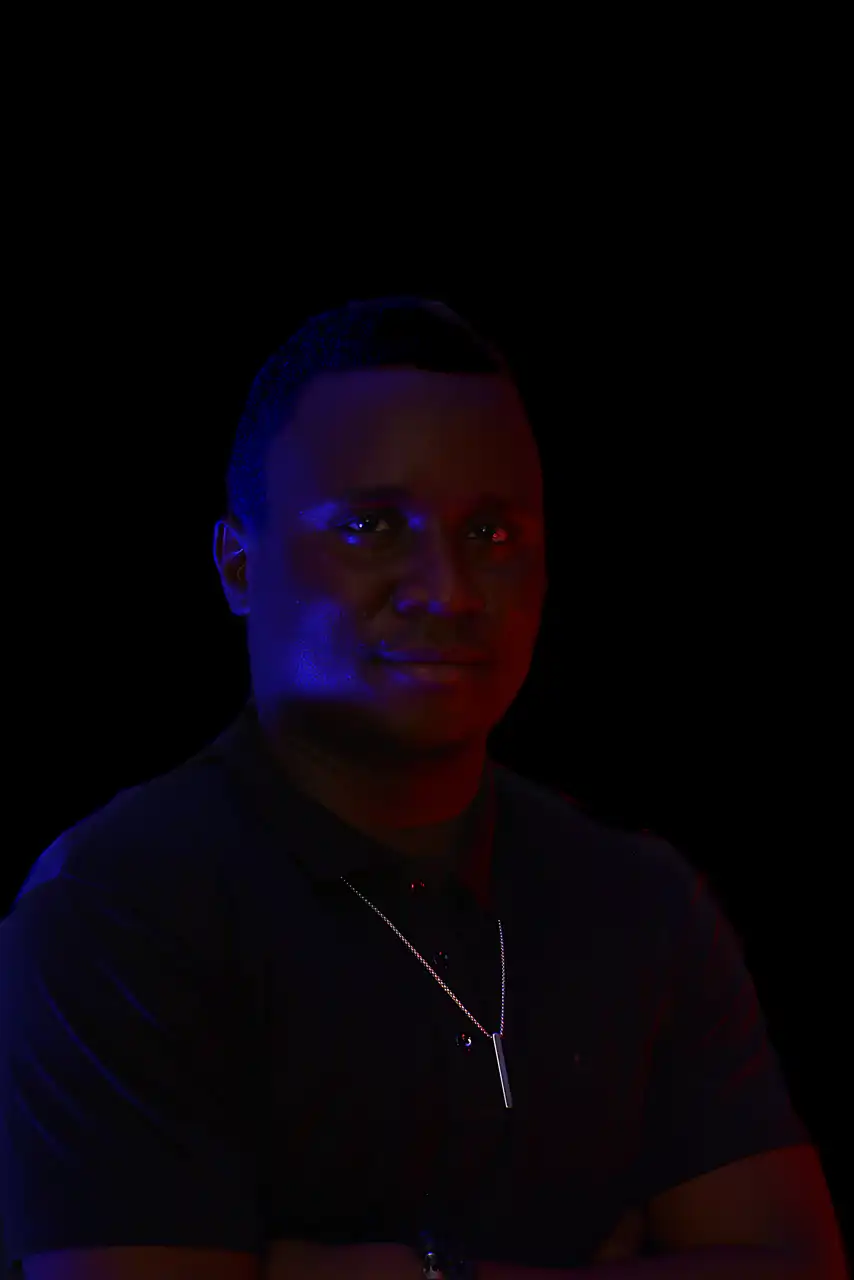
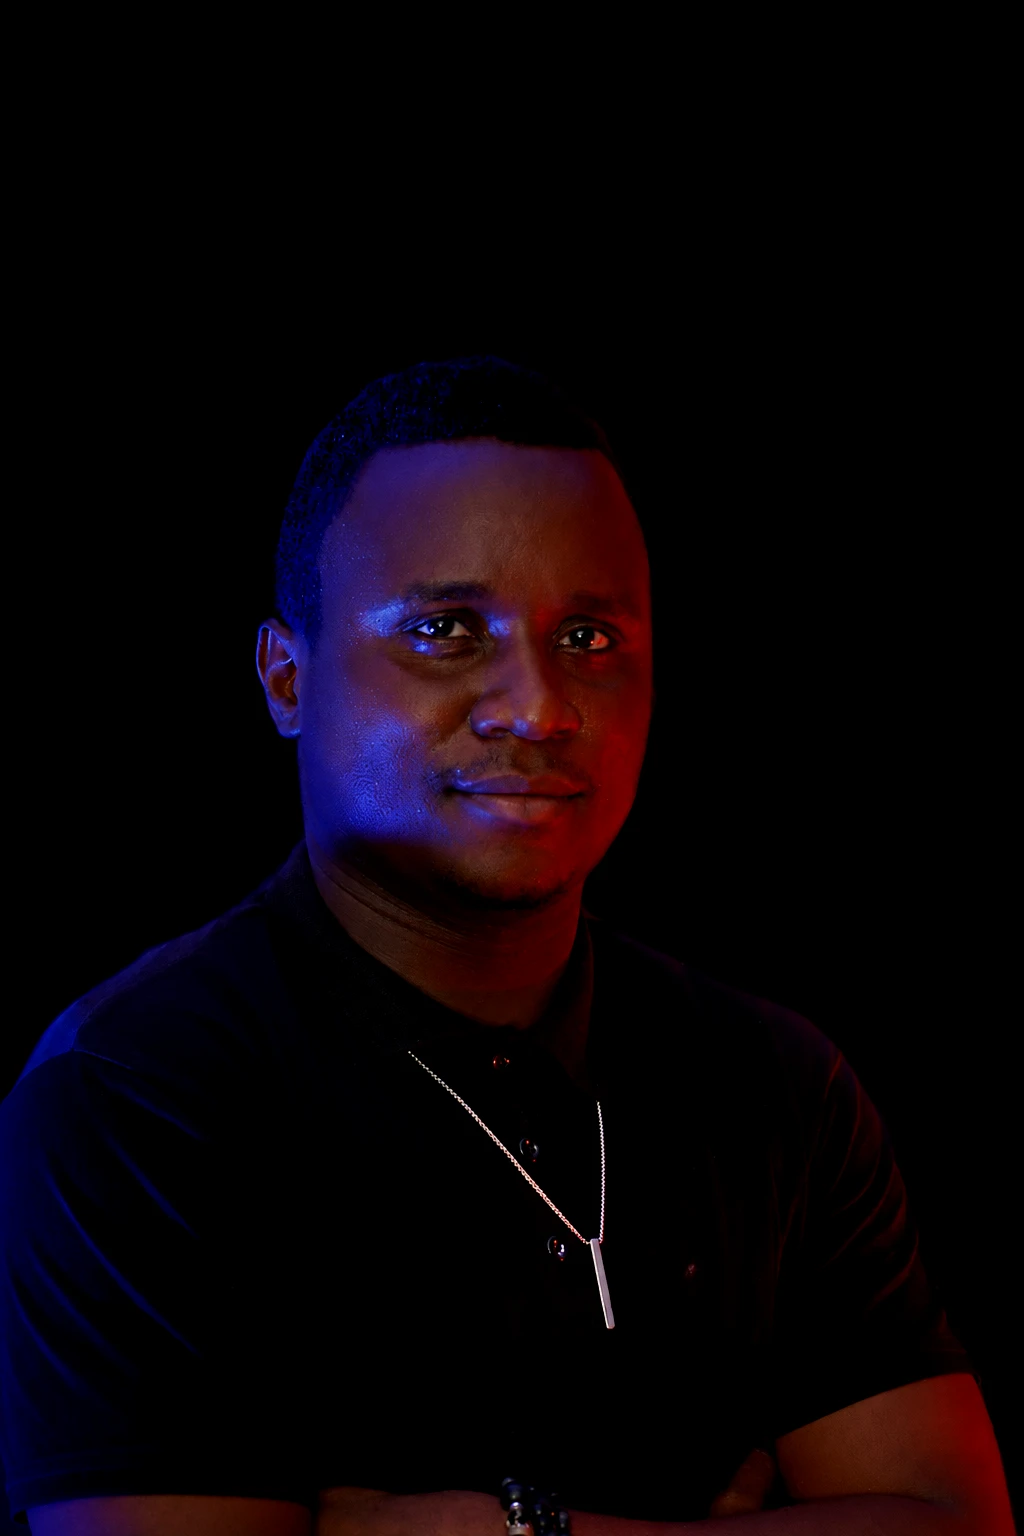
Added admin option to select what to display for large screen and what to display for small screen

diff --git a/public/js/admin-upload.js b/public/js/admin-upload.js
@@ -5,6 +5,7 @@ document.addEventListener('DOMContentLoaded', async () => {
   const list = document.querySelector('[data-projects-list]')
   const empty = document.querySelector('[data-projects-empty]')
   const count = document.querySelector('[data-project-count]')
+  const homepageSelectionCount = document.querySelector('[data-homepage-selection-count]')
   const thumbnailInput = document.querySelector('[data-thumbnail-input]')
   const thumbnailPreview = document.querySelector('[data-thumbnail-preview]')
   const thumbnailPlaceholder = document.querySelector('[data-thumbnail-placeholder]')
@@ -24,6 +25,7 @@ document.addEventListener('DOMContentLoaded', async () => {
 
   let thumbnailUrl = ''
   let galleryUrls = []
+  let selectionUpdatePending = false
 
   function clearThumbnailPreview() {
     if (thumbnailUrl) URL.revokeObjectURL(thumbnailUrl)
@@ -138,6 +140,9 @@ document.addEventListener('DOMContentLoaded', async () => {
     const data = await response.json()
     if (!response.ok) throw new Error(data.message || 'Projects could not be loaded.')
     count.textContent = data.projects.length
+    const homepageCount = data.projects.filter((project) => project.homepageFeatured).length
+    const mobileCount = data.projects.filter((project) => project.homepageMobileFeatured).length
+    homepageSelectionCount.textContent = `Homepage: ${homepageCount}/4 · Mobile: ${mobileCount}/2`
     empty.classList.toggle('hidden', Boolean(data.projects.length))
     list.innerHTML = data.projects.map((project) => `
       <article class="grid grid-cols-[100px_1fr_auto] items-center gap-4 border border-dawn-200 bg-white p-3">
@@ -150,6 +155,10 @@ document.addEventListener('DOMContentLoaded', async () => {
           <p class="mt-1 text-xs text-dawn-400">${new Date(project.eventDate).toLocaleDateString('en', { month: 'long', year: 'numeric' })}</p>
         </div>
         <button type="button" class="inline-flex min-w-20 items-center justify-center gap-2 rounded-full p-2 text-red-600 transition hover:bg-red-50 disabled:cursor-wait" data-delete-project="${project._id}" aria-label="Delete project"><span data-delete-label>Delete</span></button>
+        <div class="col-span-3 flex flex-wrap gap-2 border-t border-dawn-100 pt-3">
+          <button type="button" class="rounded-full border px-3 py-2 text-xs font-semibold transition disabled:cursor-not-allowed disabled:opacity-50 ${project.homepageFeatured ? 'border-gold-500 bg-gold-100 text-dawn-950' : 'border-dawn-200 text-dawn-700 hover:bg-dawn-50'}" data-homepage-project="${project._id}" ${!project.homepageFeatured && homepageCount >= 4 ? 'disabled title="Four projects are already selected for the homepage"' : ''}>${project.homepageFeatured ? 'Remove from homepage' : 'Show on homepage'}</button>
+          <button type="button" class="rounded-full border px-3 py-2 text-xs font-semibold transition disabled:cursor-not-allowed disabled:opacity-50 ${project.homepageMobileFeatured ? 'border-gold-500 bg-gold-100 text-dawn-950' : 'border-dawn-200 text-dawn-700 hover:bg-dawn-50'}" data-mobile-project="${project._id}" ${!project.homepageFeatured || (!project.homepageMobileFeatured && mobileCount >= 2) ? 'disabled title="Select a homepage project; up to two can appear on mobile"' : ''}>${project.homepageMobileFeatured ? 'Remove from mobile' : 'Show on mobile'}</button>
+        </div>
       </article>
     `).join('')
 
@@ -188,6 +197,37 @@ document.addEventListener('DOMContentLoaded', async () => {
 
     bindUploadImageOpen(list)
   }
+
+  list.addEventListener('click', async (event) => {
+    const button = event.target.closest('[data-homepage-project], [data-mobile-project]')
+    if (!button || button.disabled || selectionUpdatePending) return
+
+    const isMobileSelection = button.hasAttribute('data-mobile-project')
+    const id = button.getAttribute(isMobileSelection ? 'data-mobile-project' : 'data-homepage-project')
+    const current = button.textContent.includes('Remove')
+    const payload = isMobileSelection
+      ? { homepageMobileFeatured: !current }
+      : { homepageFeatured: !current }
+    selectionUpdatePending = true
+    button.disabled = true
+
+    try {
+      const response = await apiFetch(`/api/projects/${id}`, {
+        method: 'PATCH',
+        headers: { 'Content-Type': 'application/json' },
+        body: JSON.stringify(payload)
+      })
+      const result = await response.json()
+      if (!response.ok) throw new Error(result.message || 'Homepage selection could not be updated.')
+      setNotice('success', result.message)
+      await loadProjects()
+    } catch (error) {
+      button.disabled = false
+      setNotice('error', error.message || 'Homepage selection could not be updated.')
+    } finally {
+      selectionUpdatePending = false
+    }
+  })
 
   form.addEventListener('submit', async (event) => {
     event.preventDefault()

diff --git a/src/routes/projects.js b/src/routes/projects.js
@@ -89,7 +89,6 @@ router.post(
         eventDate: new Date(`${eventDate}-01T12:00:00.000Z`),
         location,
         description,
-        featured: req.body.featured === 'true',
         thumbnail: thumbnailPath,
         thumbnailVariants: thumbnailVariantPaths,
         images: imagePaths,
@@ -108,17 +107,46 @@ router.post(
 
 router.patch('/:id', requireAdmin, async (req, res, next) => {
   try {
-    const update = {
-      eventName: req.body.eventName === undefined ? undefined : sanitizeUserText(req.body.eventName),
-      location: req.body.location === undefined ? undefined : sanitizeUserText(req.body.location),
-      description: req.body.description === undefined ? undefined : sanitizeUserText(req.body.description),
-      featured: req.body.featured
-    }
-    if (req.body.eventDate) update.eventDate = new Date(`${sanitizeUserText(req.body.eventDate)}-01T12:00:00.000Z`)
-    Object.keys(update).forEach((key) => update[key] === undefined && delete update[key])
-
-    const project = await Project.findByIdAndUpdate(req.params.id, update, { new: true, runValidators: true })
+    const project = await Project.findById(req.params.id)
     if (!project) return res.status(404).json({ message: 'Project not found.' })
+
+    if (req.body.eventName !== undefined) project.eventName = sanitizeUserText(req.body.eventName)
+    if (req.body.location !== undefined) project.location = sanitizeUserText(req.body.location)
+    if (req.body.description !== undefined) project.description = sanitizeUserText(req.body.description)
+    if (req.body.eventDate) project.eventDate = new Date(`${sanitizeUserText(req.body.eventDate)}-01T12:00:00.000Z`)
+
+    if (req.body.homepageFeatured !== undefined) {
+      if (typeof req.body.homepageFeatured !== 'boolean') {
+        return res.status(400).json({ message: 'Homepage selection must be true or false.' })
+      }
+      if (req.body.homepageFeatured && !project.homepageFeatured) {
+        const selectedCount = await Project.countDocuments({ homepageFeatured: true })
+        if (selectedCount >= 4) {
+          return res.status(400).json({ message: 'You can select up to four homepage projects.' })
+        }
+      }
+      project.homepageFeatured = req.body.homepageFeatured
+      if (!project.homepageFeatured) project.homepageMobileFeatured = false
+    }
+
+    if (req.body.homepageMobileFeatured !== undefined) {
+      if (typeof req.body.homepageMobileFeatured !== 'boolean') {
+        return res.status(400).json({ message: 'Mobile homepage selection must be true or false.' })
+      }
+      const isSelectedForHomepage = req.body.homepageFeatured ?? project.homepageFeatured
+      if (req.body.homepageMobileFeatured && !isSelectedForHomepage) {
+        return res.status(400).json({ message: 'Select this project for the homepage before adding it to mobile.' })
+      }
+      if (req.body.homepageMobileFeatured && !project.homepageMobileFeatured) {
+        const mobileCount = await Project.countDocuments({ homepageMobileFeatured: true })
+        if (mobileCount >= 2) {
+          return res.status(400).json({ message: 'You can select up to two mobile homepage projects.' })
+        }
+      }
+      project.homepageMobileFeatured = req.body.homepageMobileFeatured
+    }
+
+    await project.save()
     res.json({ message: 'Project updated.', project })
   } catch (error) {
     next(error)

diff --git a/src/routes/site.js b/src/routes/site.js
@@ -1,5 +1,5 @@
 import { Router } from 'express'
-import { getPortfolioProject, getPortfolioProjects } from '../lib/projects.js'
+import { getHomepageProjects, getPortfolioProject, getPortfolioProjects } from '../lib/projects.js'
 import { getSiteSettings } from '../lib/siteSettings.js'
 import { env } from '../config/env.js'
 
@@ -74,13 +74,14 @@ const values = [
 router.get('/', async (_req, res, next) => {
   try {
     const [projects, settings] = await Promise.all([
-      getPortfolioProjects({ limit: 4, oldestFirst: true }),
+      getHomepageProjects(),
       getSiteSettings()
     ])
     res.render('pages/home', {
       title: 'MTC Studio',
       page: 'home',
       projects,
+      mobileProjectIds: new Set(projects.filter((project) => project.homepageMobileFeatured).map((project) => String(project._id))),
       services,
       pricing,
       constructionOverlayEnabled: settings.constructionOverlayEnabled,

diff --git a/public/css/app.css b/public/css/app.css
@@ -1340,6 +1340,10 @@ button:disabled{
   grid-column: span 2 / span 2;
 }
 
+.col-span-3{
+  grid-column: span 3 / span 3;
+}
+
 .row-span-1{
   grid-row: span 1 / span 1;
 }
@@ -2861,10 +2865,6 @@ button:disabled{
   accent-color: #c99435;
 }
 
-.accent-gold-600{
-  accent-color: #ad742a;
-}
-
 .opacity-0{
   opacity: 0;
 }
@@ -3487,6 +3487,10 @@ button:disabled{
 
 .disabled\:cursor-wait:disabled{
   cursor: wait;
+}
+
+.disabled\:opacity-50:disabled{
+  opacity: 0.5;
 }
 
 .group[open] .group-open\:rotate-180{

diff --git a/src/lib/projects.js b/src/lib/projects.js
@@ -13,6 +13,12 @@ export async function getPortfolioProjects({ limit, allowSamples = true, oldestF
   return limit ? fallbackProjects.slice(0, limit) : fallbackProjects
 }
 
+export async function getHomepageProjects() {
+  return Project.find({ homepageFeatured: true })
+    .sort({ eventDate: -1, createdAt: -1 })
+    .limit(4)
+}
+
 export async function getPortfolioProject(id) {
   const sample = sampleProjects.find((project) => project._id === id)
   if (sample) return sample

diff --git a/src/models/Project.js b/src/models/Project.js
@@ -18,7 +18,8 @@ const projectSchema = new mongoose.Schema(
       validate: [(value) => value.length <= 10, 'A project can contain at most ten gallery images.']
     },
     imageVariants: [{ small: String, smallWidth: Number, large: String, largeWidth: Number }],
-    featured: { type: Boolean, default: false }
+    homepageFeatured: { type: Boolean, default: false },
+    homepageMobileFeatured: { type: Boolean, default: false }
   },
   { timestamps: true }
 )
